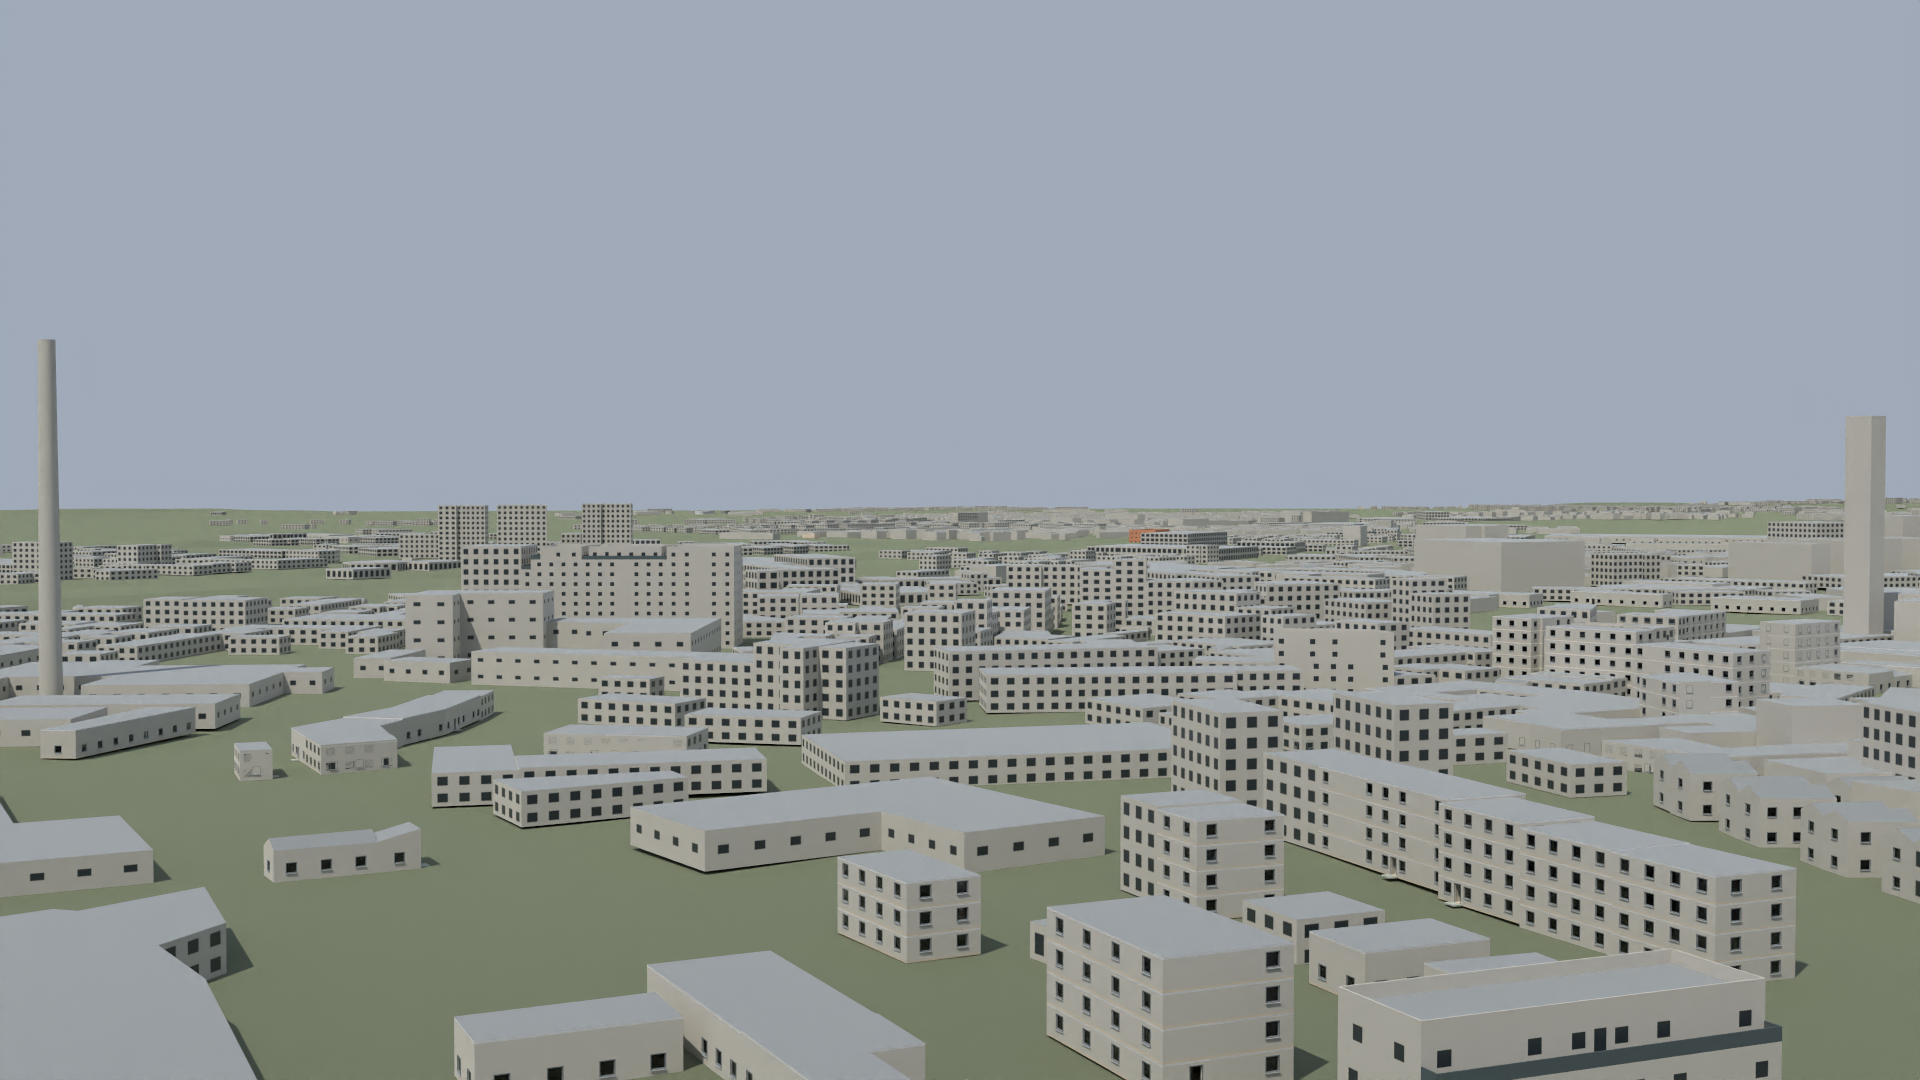
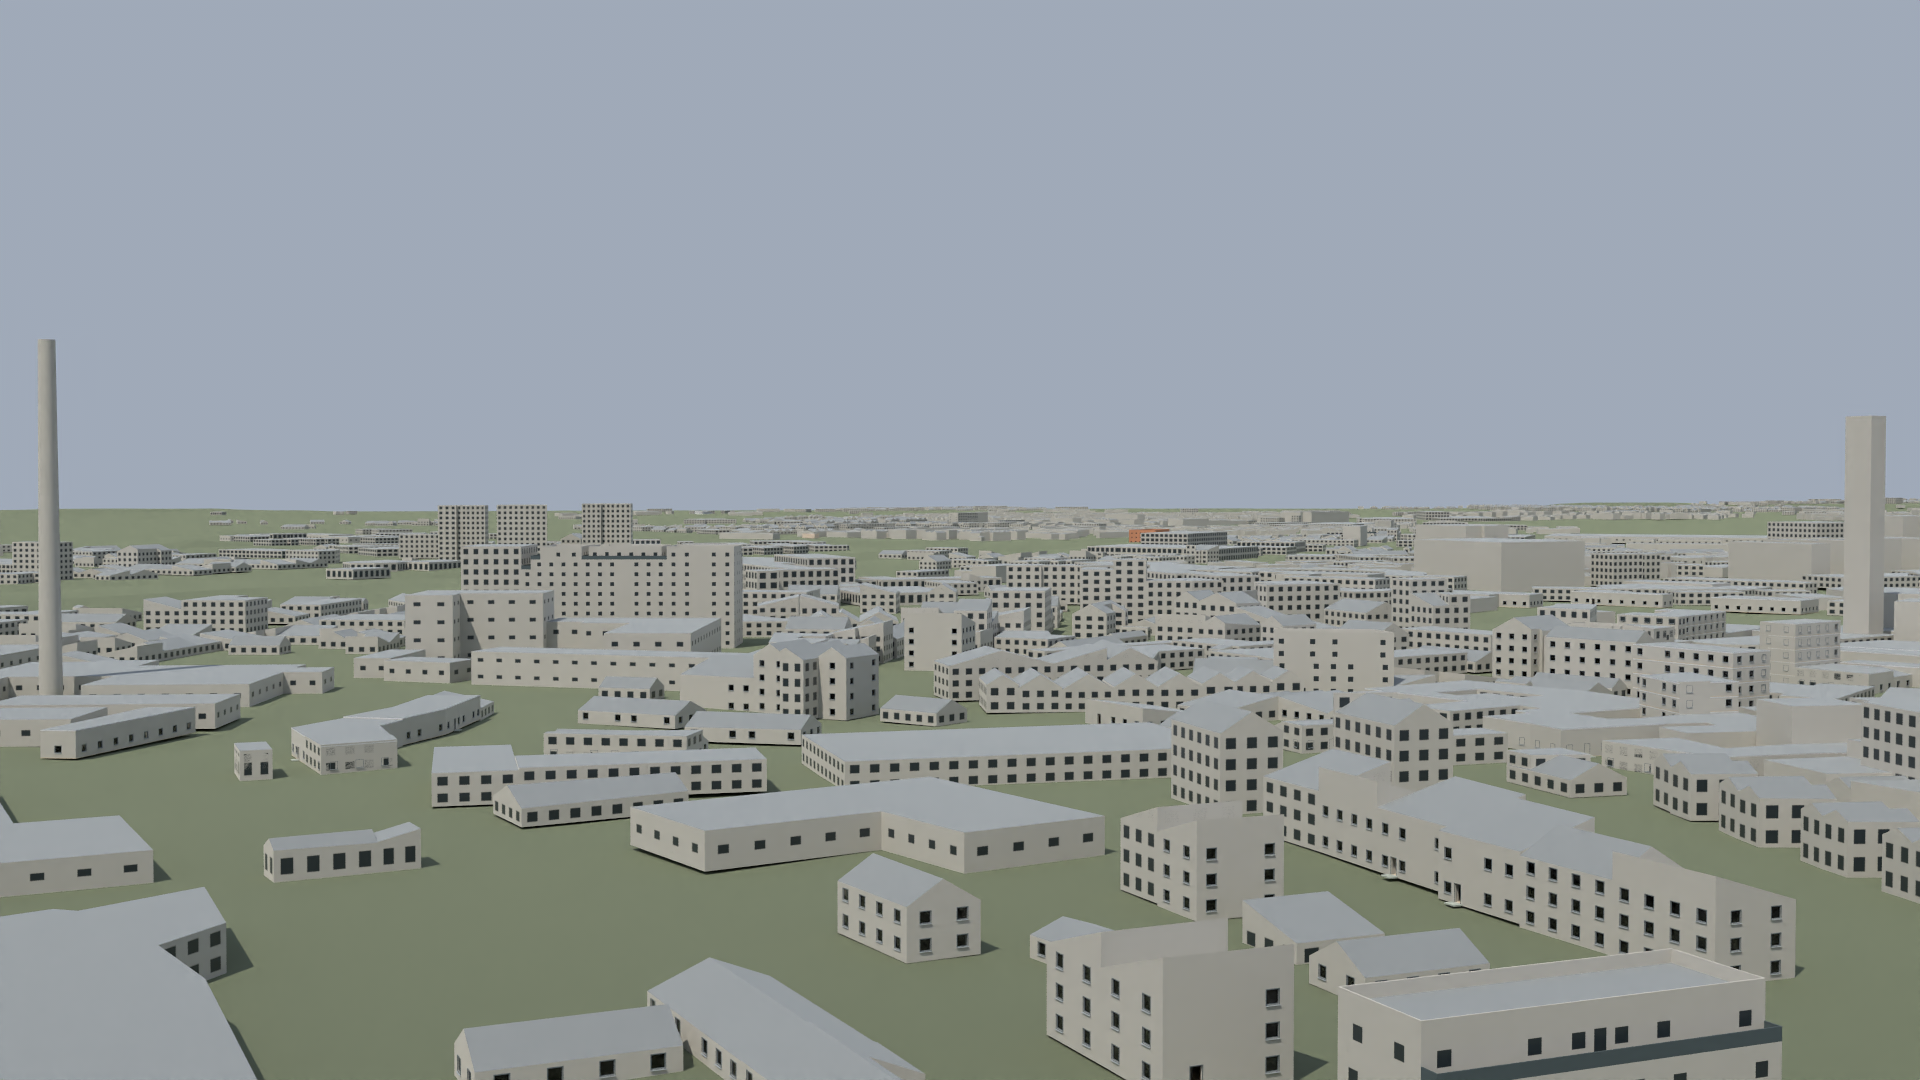
Refresh checked Rosenheim roof silhouettes and explicit proof output (#8)

diff --git a/test/experiments/buildings/verify_roof_envelopes.py b/test/experiments/buildings/verify_roof_envelopes.py
@@ -262,11 +262,7 @@ def run(output, repeats):
 
 if __name__ == "__main__":
     parser = argparse.ArgumentParser(description=__doc__)
-    parser.add_argument(
-        "--output",
-        type=Path,
-        default=Path("build/experiments/buildings/roof-envelopes"),
-    )
+    parser.add_argument("--output", type=Path, required=True)
     parser.add_argument("--repeats", type=int, default=21)
     args = parser.parse_args()
     run(args.output, args.repeats)

diff --git a/test/experiments/buildings/README.md b/test/experiments/buildings/README.md
@@ -298,7 +298,7 @@ Rejected comparison paths remain rejected and do not enter cost comparisons.
 The public page continues to show exactly four complete source scenes.
 
 ```sh
-.venv/bin/python -W error test/experiments/buildings/verify_roof_envelopes.py
+.venv/bin/python -W error test/experiments/buildings/verify_roof_envelopes.py --output "${TMPDIR:-/tmp}/outshine-buildings-roofs-$(git rev-parse --short HEAD)"
 .venv/bin/python test/experiments/buildings/roof_envelope_plan.py
 ```
 
